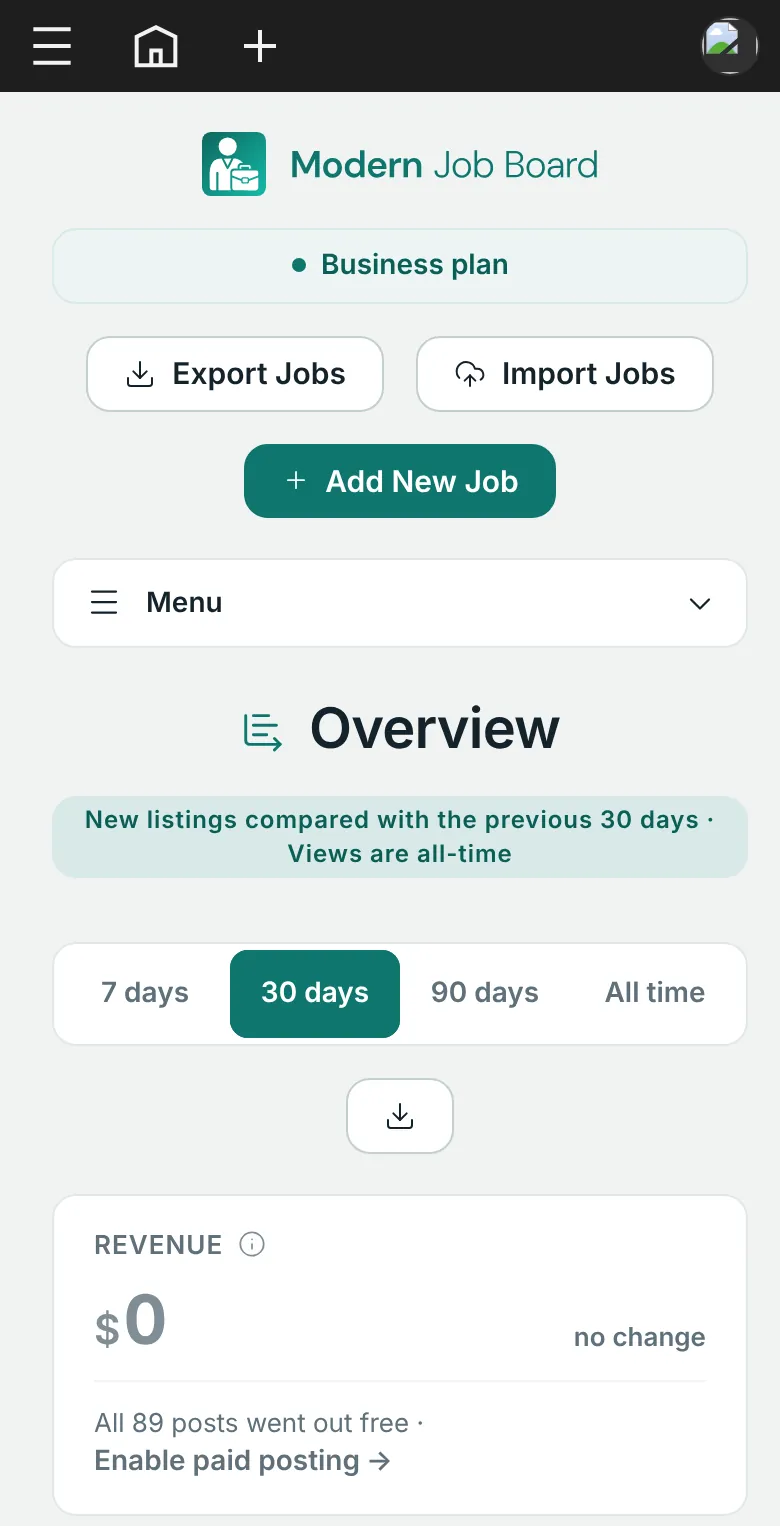
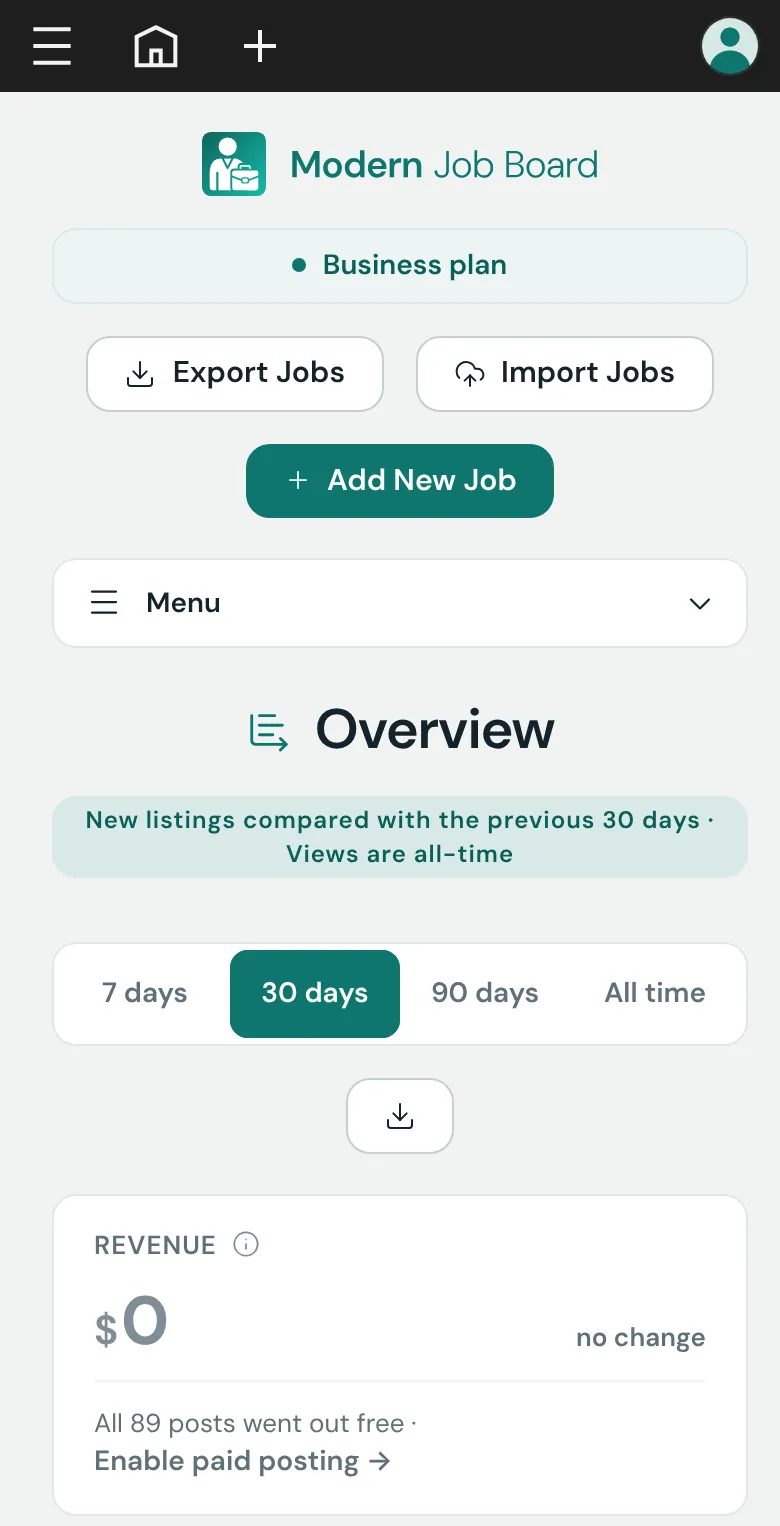
Unlink screenshots, fade them in, new admin screenshots (0.9.0-beta.86)
Screenshots are pictures, not links (seeds and a render filter for content
saved earlier), carry a file-time version so replacements show at once, and
fade in when they come into view: browser window first, then the phone.
New admin screenshots with a working avatar and the plugin's new phone
layout.

Claude-Session: https://claude.ai/code/session_011eNM8LrPwtigcZq5nayHnB

diff --git a/js/script.js b/js/script.js
@@ -1,4 +1,24 @@
 document.addEventListener('DOMContentLoaded', () => {
+    // Device screenshots: a short fade-in, browser window first, then the
+    // phone, when they come into view (html.mjb-intro is set in the head by
+    // mjb_theme_intro_flag(); see .mjb-intro in styles.css).
+    (() => {
+        const root = document.documentElement;
+        if (!root.classList.contains('mjb-intro')) {
+            return;
+        }
+        root.classList.add('mjb-intro-ready');
+        const seen = new IntersectionObserver((entries) => {
+            entries.forEach((entry) => {
+                if (entry.isIntersecting) {
+                    entry.target.classList.add('is-in');
+                    seen.unobserve(entry.target);
+                }
+            });
+        }, { threshold: 0.15 });
+        document.querySelectorAll('.mjb-devices').forEach((set) => seen.observe(set));
+    })();
+
     document.querySelectorAll('[data-demo-path]').forEach((link) => {
         const path = link.getAttribute('data-demo-path') || '/jobs/';
         link.setAttribute('href', path.startsWith('/') ? path : `/${path}`);

diff --git a/css/styles.css b/css/styles.css
@@ -4438,6 +4438,25 @@ body:not(.mjb-demo) a.btn:hover > svg:last-child,
     background: #fff;
 }
 
+/* Intro: the browser window fades in, then the phone, once the screenshots
+   are on screen. html.mjb-intro is set in the head (mjb_theme_intro_flag())
+   so nothing flashes; js/script.js adds .is-in. Skipped when the visitor
+   prefers less motion; without JavaScript the screenshots simply show. */
+.mjb-intro .mjb-devices__desktop,
+.mjb-intro .mjb-devices__mobile {
+    transition: opacity 0.7s ease, transform 0.9s cubic-bezier(0.16, 1, 0.3, 1);
+}
+
+.mjb-intro .mjb-devices__mobile {
+    transition-delay: 0.3s;
+}
+
+.mjb-intro .mjb-devices:not(.is-in) .mjb-devices__desktop,
+.mjb-intro .mjb-devices:not(.is-in) .mjb-devices__mobile {
+    opacity: 0;
+    transform: translateY(12px);
+}
+
 /* Caption under the frames, centred under the browser window */
 .site-main--content .entry-content .mjb-devices p.mjb-devices__caption,
 .mjb-devices .mjb-devices__caption {

diff --git a/style.css b/style.css
@@ -4,7 +4,7 @@ Theme URI: https://www.modernjobboard.com
 Author: Martin Orton / Antigravity
 Author URI: https://martinorton.com
 Description: Custom WordPress theme converted from a static HTML template for Modern Job Board. Pre-stable beta release (not 1.0 stable).
-Version: 0.9.0-beta.85
+Version: 0.9.0-beta.86
 License: GNU General Public License v2 or later
 License URI: http://www.gnu.org/licenses/gpl-2.0.html
 Text Domain: modern-job-board-theme

diff --git a/inc/feature-content.php b/inc/feature-content.php
@@ -199,7 +199,7 @@ function mjb_theme_b_table( $rows, $class ) {
 }
 
 /**
- * A screenshot from images/features/, linked to the full-size file.
+ * A screenshot from images/features/ (not linked).
  *
  * @param string $name    File name without extension.
  * @param string $alt     Alternative text.
@@ -211,7 +211,7 @@ function mjb_theme_b_shot( $name, $alt, $caption, $width = 0 ) {
 	$url   = esc_url( get_template_directory_uri() . '/images/features/' . sanitize_file_name( $name ) . '.webp' );
 	$class = 'mjb-fb-shot' . ( $width >= 1500 ? ' mjb-fb-shot--wide' : '' );
 
-	return "<!-- wp:image {\"sizeSlug\":\"full\",\"linkDestination\":\"custom\",\"className\":\"{$class}\"} -->\n<figure class=\"wp-block-image size-full {$class}\"><a href=\"{$url}\"><img src=\"{$url}\" alt=\"" . esc_attr( $alt ) . "\"/></a><figcaption class=\"wp-element-caption\">{$caption}</figcaption></figure>\n<!-- /wp:image -->";
+	return "<!-- wp:image {\"sizeSlug\":\"full\",\"linkDestination\":\"none\",\"className\":\"{$class}\"} -->\n<figure class=\"wp-block-image size-full {$class}\"><img src=\"{$url}\" alt=\"" . esc_attr( $alt ) . "\"/><figcaption class=\"wp-element-caption\">{$caption}</figcaption></figure>\n<!-- /wp:image -->";
 }
 
 /**
@@ -237,7 +237,7 @@ function mjb_theme_b_devices( $name, $alt_desktop, $alt_mobile, $caption ) {
 	$desktop = esc_url( $base . 'desktop/' . $file );
 	$mobile  = esc_url( $base . 'mobile/' . $file );
 
-	$inner = "<!-- wp:image {\"sizeSlug\":\"full\",\"linkDestination\":\"custom\",\"className\":\"mjb-devices__desktop\"} -->\n<figure class=\"wp-block-image size-full mjb-devices__desktop\"><a href=\"{$desktop}\"><img src=\"{$desktop}\" alt=\"" . esc_attr( $alt_desktop ) . "\"/></a></figure>\n<!-- /wp:image -->"
+	$inner = "<!-- wp:image {\"sizeSlug\":\"full\",\"linkDestination\":\"none\",\"className\":\"mjb-devices__desktop\"} -->\n<figure class=\"wp-block-image size-full mjb-devices__desktop\"><img src=\"{$desktop}\" alt=\"" . esc_attr( $alt_desktop ) . "\"/></figure>\n<!-- /wp:image -->"
 		. "\n\n<!-- wp:image {\"sizeSlug\":\"full\",\"linkDestination\":\"none\",\"className\":\"mjb-devices__mobile\"} -->\n<figure class=\"wp-block-image size-full mjb-devices__mobile\"><img src=\"{$mobile}\" alt=\"" . esc_attr( $alt_mobile ) . "\"/></figure>\n<!-- /wp:image -->"
 		. "\n\n" . mjb_theme_b_paragraph( $caption, 'mjb-devices__caption' );
 
@@ -446,6 +446,34 @@ function mjb_theme_feature_shot_dimensions( $html ) {
 	return str_replace( $img[0], $tag, $html );
 }
 add_filter( 'render_block_core/image', 'mjb_theme_feature_shot_dimensions' );
+
+/**
+ * The theme's screenshots are pictures, not links: drop a link that only
+ * opens the screenshot file itself (older seeded content had one), and add
+ * the file's modification time to its address so a replaced screenshot is
+ * shown at once instead of a cached copy. Links to anything else are kept.
+ *
+ * @param string $html Rendered Image block.
+ * @return string
+ */
+function mjb_theme_feature_shot_render( $html ) {
+	if ( false === strpos( $html, '/images/features/' ) ) {
+		return $html;
+	}
+
+	$html = preg_replace( '#<a\b[^>]*\shref="[^"]*/images/features/[^"]*\.webp"[^>]*>\s*(<img\b[^>]*>)\s*</a>#i', '$1', $html );
+
+	return preg_replace_callback(
+		'#(<img\b[^>]*\ssrc=")([^"?]*/images/features/((?:desktop/|mobile/)?[a-z0-9-]+\.webp))"#i',
+		static function ( $m ) {
+			$file = get_template_directory() . '/images/features/' . $m[3];
+
+			return is_readable( $file ) ? $m[1] . $m[2] . '?ver=' . filemtime( $file ) . '"' : $m[0];
+		},
+		$html
+	);
+}
+add_filter( 'render_block_core/image', 'mjb_theme_feature_shot_render', 11 );
 
 /**
  * Add the column heading to every cell of a reference table, so the phone

diff --git a/functions.php b/functions.php
@@ -5,7 +5,7 @@
  * @package ModernJobBoardTheme
  */
 
-define( 'MJB_THEME_VERSION', '0.9.0-beta.85' );
+define( 'MJB_THEME_VERSION', '0.9.0-beta.86' );
 
 if ( ! function_exists( 'mjb_theme_setup' ) ) {
 	/**
@@ -135,6 +135,20 @@ function mjb_theme_scripts() {
 	}
 }
 add_action( 'wp_enqueue_scripts', 'mjb_theme_scripts' );
+
+/**
+ * Mark the page for the screenshot fade-in before it is first painted (see
+ * .mjb-intro in css/styles.css and js/script.js), only when the visitor has
+ * not asked for less motion. If js/script.js never runs, the mark is removed
+ * once the page has loaded, so the screenshots can't stay hidden.
+ */
+function mjb_theme_intro_flag() {
+	if ( is_admin() ) {
+		return;
+	}
+	echo "<script>(function(d){if(!('IntersectionObserver' in window)||window.matchMedia('(prefers-reduced-motion: reduce)').matches){return;}d.classList.add('mjb-intro');window.addEventListener('load',function(){if(!d.classList.contains('mjb-intro-ready')){d.classList.remove('mjb-intro');}});})(document.documentElement);</script>\n";
+}
+add_action( 'wp_head', 'mjb_theme_intro_flag', 1 );
 
 /**
  * Enqueue landing styles in the block editor (parent frame + block assets).

diff --git a/CHANGELOG.md b/CHANGELOG.md
@@ -2,6 +2,14 @@
 
 Canonical version: `Version` in `style.css` and `MJB_THEME_VERSION` in `functions.php`.
 
+## [0.9.0-beta.86] - 2026-11-23
+
+### Changed
+- Screenshots are no longer links. The seeded feature pages stop linking the desktop screenshot to its file, and a render filter (`mjb_theme_feature_shot_render()`) drops any link that only opens a screenshot file, so pages saved earlier lose it too. Links to anything else are kept.
+- Screenshot addresses carry the file's modification time (`?ver=`), so a replaced screenshot shows at once instead of a cached copy.
+- Device screenshots fade in when they come into view: the browser window first, then the phone, a 12px rise over about 0.7 seconds. The page is marked in the head (`mjb_theme_intro_flag()`) so nothing flashes; nothing moves for visitors who prefer less motion, and without JavaScript the screenshots simply show.
+- New admin screenshots (Admin Dashboard, Shortcodes Setup, Custom Fields, Resume Privacy, Google Jobs; desktop and phone) and a new phone screenshot of recruiter applications, taken with Modern Job Board 0.9.0-beta.179: the admin bar avatar shows instead of a broken image, the phone tables are cards with icon buttons, and the filter pills wrap.
+
 ## [0.9.0-beta.85] - 2026-11-22
 
 ### Changed
